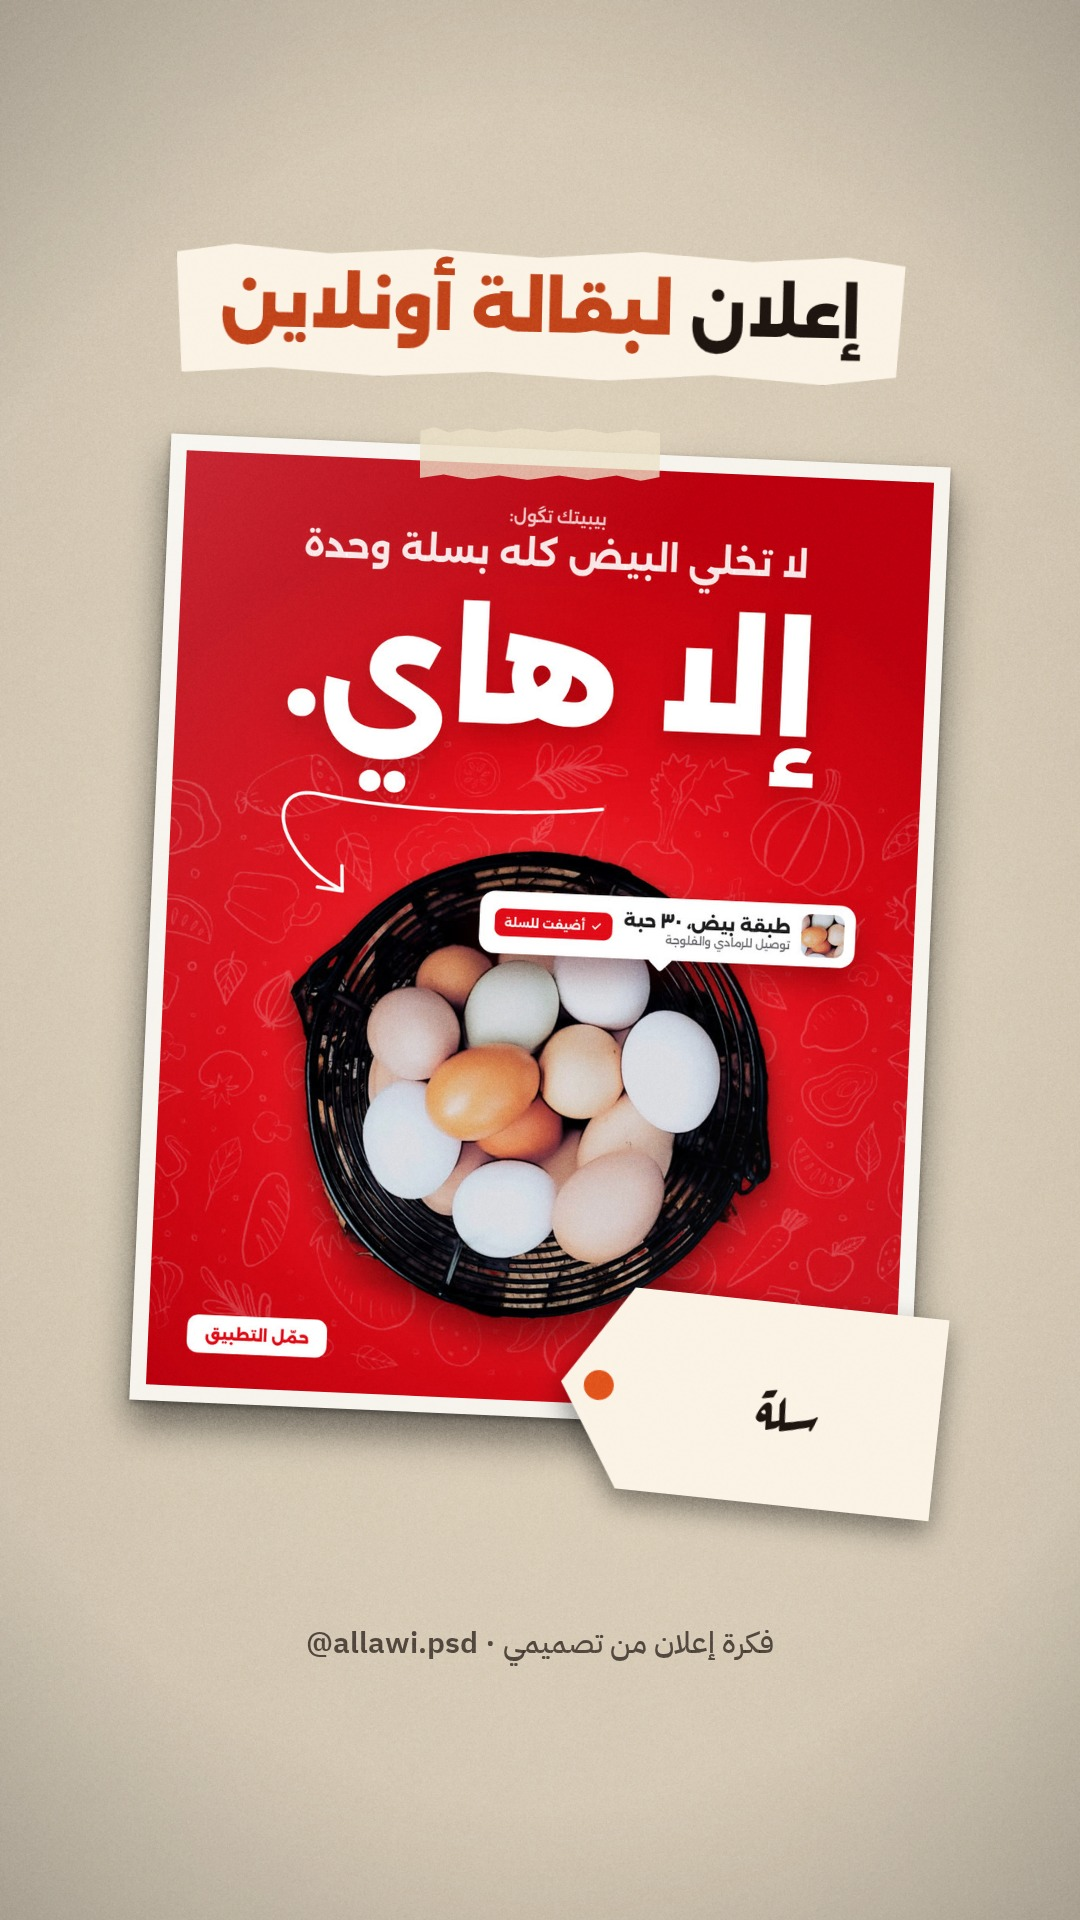
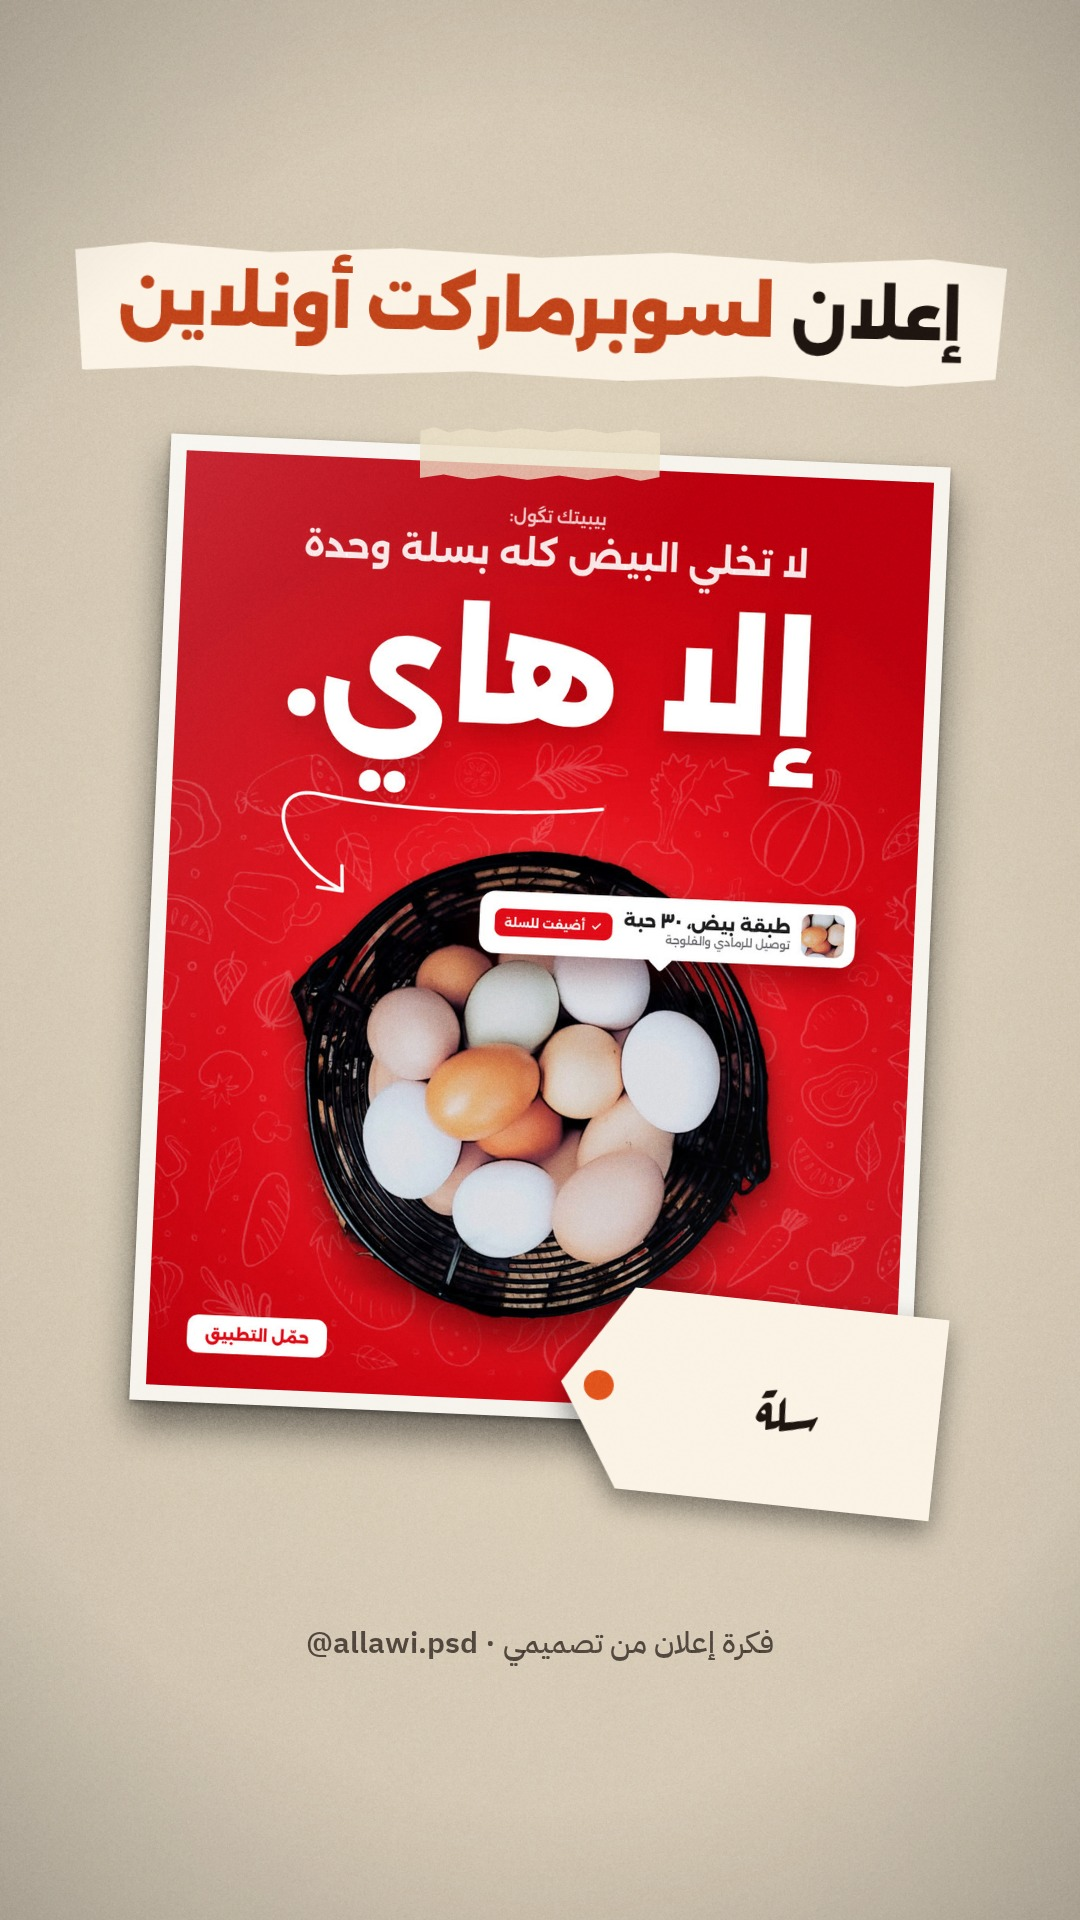
Highlights: label the Sala story «إعلان لسوبرماركت أونلاين»
Claude-Session: https://claude.ai/code/session_013oWw8PeK3nbdaZG97hkGWn

Changed region(s): [[0.0611, 0.125, 0.9472, 0.2188]]

diff --git a/marketing/ig-highlights/highlights.html b/marketing/ig-highlights/highlights.html
@@ -196,7 +196,7 @@ const WORK = [
   ['saj', 'paper', 'إعلان <b>لمطعم</b>', 'صاج الريف'],
   ['shifa', 'orange', 'إعلان <b>لمختبر</b>', 'مختبر الشفاء'],
   ['miswag', 'ink', 'إعلان <b>لمتجر أونلاين</b>', 'مسواگ'],
-  ['sala', 'paper', 'إعلان <b>لبقالة أونلاين</b>', 'سلة'],
+  ['sala', 'paper', 'إعلان <b>لسوبرماركت أونلاين</b>', 'سلة'],
   ['baly', 'orange', 'إعلان <b>لتطبيق تكسي</b>', 'بَلي'],
   ['cactus', 'paper', 'هوية <b>لمشروع هاند ميد</b>', 'كاكتوس'],
 ];

diff --git a/marketing/ig-highlights/README.md b/marketing/ig-highlights/README.md
@@ -16,7 +16,7 @@ stamps' worn ink) and fonts don't load from `file://`. `out/overview.jpg` shows 
 | Highlight | Stories, in order |
 |---|---|
 | «الأسعار» | `p1` the bundles: ٣ بوستات ٤٠ ألف, ٥ بوستات ٦٥ ألف, باقة شهرية ٩٠ ألف (٨ بوستات + ٤ ستوري هدية), each with its price bought one by one struck through (٤٢, ٧٠, ١٤٠) and what one post comes to (about ١٣, ١٣, about ١١ ألف); «الأوفر» stamp. The user asked for price psychology so the totals don't scare people; only real numbers are used (the single post really is ١٤ ألف), no made-up "was" prices · `p2` single prices (بوست ١٤ ألف، ستوري ٧ آلاف، كاروسيل ٤٠، منيو أو فلاير ٤٠، لوگو ٣٠، هوية كاملة ١٥٠ ألف، فيديو موشن: راسلني) · `p3` bigger monthly packages (المميزة ١٢٥ ألف, الكاملة ٢٠٠ ألف; lowered by the user on 9 Oct, from ١٧٥ and ٢٥٠) · `p4` how to order, in four steps, with the rules (extra revision ٣ آلاف, same-day work: half again) |
-| «أعمالي» | `w1`–`w6`: صاج الريف (restaurant), مختبر الشفاء (lab), مسواگ (online shop), سلة (online grocery), بَلي (taxi app), كاكتوس (handmade identity); each labelled «فكرة إعلان من تصميمي» · then `cta`. The الفقمة (home appliances) and ورد · WARD (beauty identity) stories were taken out at the user's request. |
+| «أعمالي» | `w1`–`w6`: صاج الريف (restaurant), مختبر الشفاء (lab), مسواگ (online shop), سلة (online supermarket; the story label was «بقالة أونلاين» until the user asked for a better name), بَلي (taxi app), كاكتوس (handmade identity); each labelled «فكرة إعلان من تصميمي» · then `cta`. The الفقمة (home appliances) and ورد · WARD (beauty identity) stories were taken out at the user's request. |
 | «براندات» | `b0` intro: «سوّيت إعلانات لأكبر شركات / حتى تشوف شگدر أسوّي لمشروعك» over the five ads, «إعلانات غير رسمية» · `b1`–`b5`: Pepsi, Qi Card, Iraqi Airways, Asiacell, talabat, laid out like the work stories (print, tape, a tag with the name) and labelled «إعلان غير رسمي» · then `cta`. The user asked for no «محد طلبه» stamps here; the reel's stamps now say «allawi.psd». |
 | (both) | `cta`: «عجبك الشغل؟», the note «أريد ٣ بوستات», «٣ بوستات بـ٤٠ ألف بس», and an arrow down to the reply bar: «دزّلي من هنا» |
 
